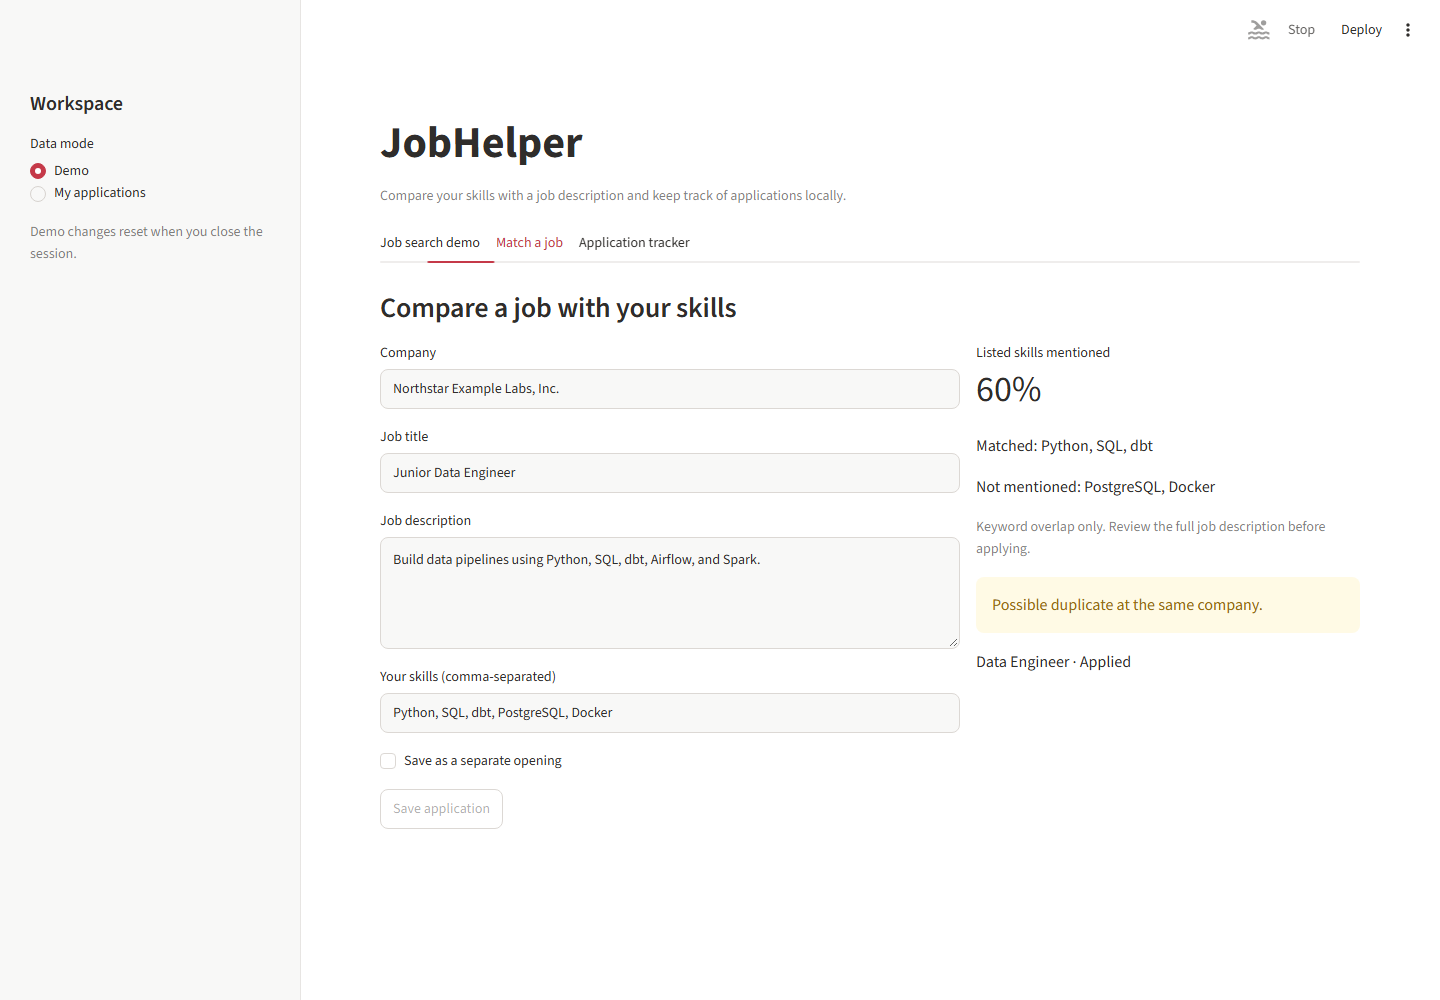
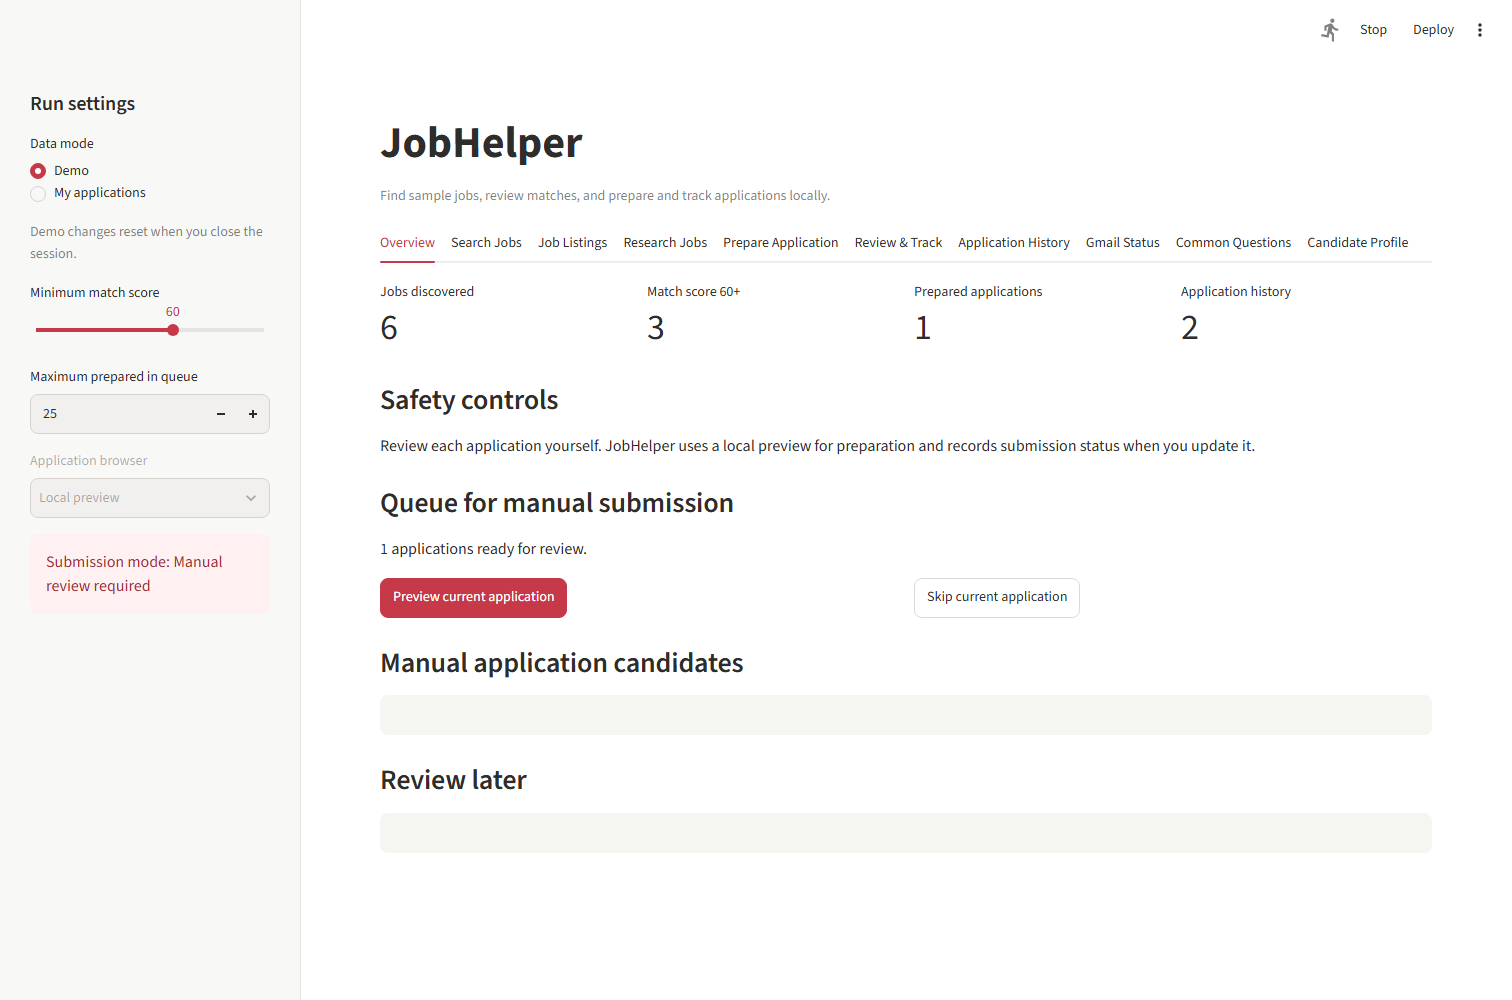
Restore dashboard layout and Windows launcher

diff --git a/app.py b/app.py
@@ -11,12 +11,16 @@ from jobhelper import (
 
 st.set_page_config(page_title="JobHelper", page_icon="🗂", layout="wide")
 st.title("JobHelper")
-st.caption("Compare your skills with a job description and keep track of applications locally.")
+st.caption("Find sample jobs, review matches, and prepare and track applications locally.")
 
 with st.sidebar:
-    st.header("Workspace")
+    st.header("Run settings")
     demo = st.radio("Data mode", ("Demo", "My applications")) == "Demo"
     st.caption("Demo changes reset when you close the session." if demo else "Applications are stored in a local SQLite file.")
+    min_score = st.slider("Minimum match score", 0, 100, 60)
+    queue_limit = st.number_input("Maximum prepared in queue", 1, 300, 25)
+    st.selectbox("Application browser", ("Local preview",), disabled=True)
+    st.error("Submission mode: Manual review required")
 
 if demo:
     if "demo_records" not in st.session_state:
@@ -35,16 +39,78 @@ defaults = DEMO_CHECK if demo else ("", "", "")
 for key, value in zip(draft_keys, defaults):
     st.session_state.setdefault(key, value)
 
-search_tab, match_tab, tracker_tab = st.tabs(("Job search demo", "Match a job", "Application tracker"))
+def change_status(record: Application, status: str) -> None:
+    if demo:
+        records[records.index(record)] = replace(record, status=status)
+    else:
+        tracker.set_status(record.id, status)
+
+
+def show_records(items: list[Application]) -> None:
+    st.dataframe([{"Company": item.company, "Role": item.title, "Status": item.status,
+                   "Added": item.added_on} for item in items], hide_index=True)
+
+
+overview, search_tab, listings, research, match_tab, tracker_tab, history, gmail, questions, profile = st.tabs((
+    "Overview", "Search Jobs", "Job Listings", "Research Jobs", "Prepare Application", "Review & Track",
+    "Application History", "Gmail Status", "Common Questions", "Candidate Profile",
+))
+
+with profile:
+    st.subheader("Candidate profile")
+    st.caption("Enter the skills you want to compare with job descriptions. Demo mode provides sample skills.")
+    skills = st.text_input("Your skills (comma-separated)", value=DEMO_SKILLS if demo else "", key=f"{prefix}_skills")
+
+with overview:
+    all_samples = search_demo("All sources", "", "") if demo else []
+    history_records = [item for item in records if item.status in {"Applied", "Interview", "Offer", "Rejected", "Withdrawn"}]
+    prepared = [item for item in records if item.status == "Prepared"]
+    metrics = st.columns(4)
+    metrics[0].metric("Jobs discovered", len(all_samples) if demo else len(records))
+    metrics[1].metric(f"Match score {min_score}+", sum(match_skills(skills, item.description).percent >= min_score for item in (all_samples if demo else records)))
+    metrics[2].metric("Prepared applications", len(prepared))
+    metrics[3].metric("Application history", len(history_records))
+    st.subheader("Safety controls")
+    st.write("Review each application yourself. JobHelper uses a local preview for preparation and records submission status when you update it.")
+    st.subheader("Queue for manual submission")
+    if prepared:
+        st.write(f"{len(prepared)} applications ready for review.")
+        actions = st.columns(2)
+        if actions[0].button("Preview current application", type="primary", key="overview_preview"):
+            st.session_state[f"{prefix}_preview"] = prepared[0].id
+        if actions[1].button("Skip current application", key="overview_skip"):
+            change_status(prepared[0], "Skipped")
+            st.rerun()
+        if st.session_state.get(f"{prefix}_preview") == prepared[0].id:
+            st.text(f"{prepared[0].title} · {prepared[0].company}\n\n{prepared[0].description}")
+    else:
+        st.info("Prepare a job in Prepare Application to add it to this queue.")
+    st.subheader("Manual application candidates")
+    candidates = [item for item in records if item.status == "Saved"]
+    if candidates:
+        show_records(candidates)
+    else:
+        st.info("Saved applications will appear here.")
+    st.subheader("Review later")
+    later = [item for item in records if item.status == "Later"]
+    if later:
+        show_records(later)
+    else:
+        st.caption("Move an application to Later in Review & Track to see it here.")
 
 with search_tab:
-    st.subheader("Search sample postings")
+    st.subheader("Job search")
+    for column, label in zip(st.columns(len(DEMO_SOURCES)), DEMO_SOURCES):
+        if column.button(label, key=f"source_{label}", width="stretch"):
+            st.session_state.selected_source = label
+            st.session_state.sample_filters = (label, "", "")
     st.info("Simulated search. All postings are fictional. Job boards are not contacted.")
     with st.form("sample_search"):
         filters = st.columns(3)
-        source = filters[0].selectbox("Source", ("All sources", *DEMO_SOURCES), index=1)
-        query = filters[1].text_input("Keywords", placeholder="Data Engineer")
-        location = filters[2].text_input("Location", placeholder="Berlin")
+        source = st.session_state.get("selected_source", "StepStone")
+        filters[0].text(f"Source: {source}")
+        query = filters[1].text_input("Keywords", placeholder="Data Engineer", key="search_keywords")
+        location = filters[2].text_input("Location", placeholder="Berlin", key="search_location")
         if st.form_submit_button("Search sample jobs", type="primary"):
             st.session_state.sample_filters = (source, query, location)
 
@@ -58,17 +124,40 @@ with search_tab:
             info.text(posting.description)
             if action.button("Use in demo", key=f"sample_{index}", disabled=not demo):
                 st.session_state.update(dict(zip(draft_keys, (posting.company, posting.title, posting.description))))
-                st.success("Sample copied. Open Match a job to review it.")
+                st.success("Sample copied. Open Prepare Application to review it.")
     if not demo:
-        st.caption("Switch to Demo mode to copy a sample into the matcher.")
+        st.caption("Switch to Demo mode to try application preparation with a fictional posting.")
+
+with listings:
+    st.subheader("Job listings")
+    if demo:
+        scored = [(item, match_skills(skills, item.description).percent) for item in all_samples]
+        visible = [{"Role": item.title, "Company": item.company, "Location": item.location,
+                    "Source": item.source, "Match score": score} for item, score in scored if score >= min_score]
+        if visible:
+            st.dataframe(visible, hide_index=True)
+        else:
+            st.info("No sample jobs meet the current match threshold.")
+    elif records:
+        show_records(records)
+    else:
+        st.info("Add a job in Prepare Application to start your list.")
+
+with research:
+    st.subheader("Research jobs")
+    if demo:
+        st.dataframe([{"Role": "Research Software Engineer", "Institution": "Example Institute for Computing",
+                       "Topic": "Reproducible Python workflows", "Location": "Berlin", "Source": "Fictional example"}], hide_index=True)
+    else:
+        st.info("The research jobs panel shows a fictional research listing in Demo mode.")
 
 with match_tab:
-    st.subheader("Compare a job with your skills")
+    st.subheader("Prepare a job application")
     inputs, analysis = st.columns([3, 2])
     company = inputs.text_input("Company", key=draft_keys[0])
     title = inputs.text_input("Job title", key=draft_keys[1])
     description = inputs.text_area("Job description", key=draft_keys[2], height=140)
-    skills = inputs.text_input("Your skills (comma-separated)", value=DEMO_SKILLS if demo else "", key=f"{prefix}_skills")
+    inputs.caption("Edit your skills in Candidate Profile.")
     match = match_skills(skills, description)
     if description.strip() and (match.matched or match.unmentioned):
         analysis.metric("Listed skills mentioned", f"{match.percent}%")
@@ -82,13 +171,20 @@ with match_tab:
         for record in duplicates:
             analysis.text(f"{record.title} · {record.status}")
     confirmed = inputs.checkbox("Save as a separate opening", key=f"{prefix}_duplicate_override") if duplicates else True
+    prepare = inputs.checkbox("Add to the prepared queue", key=f"{prefix}_prepare")
     if inputs.button("Save application", type="primary", disabled=not confirmed, key=f"{prefix}_save"):
         try:
+            if prepare and len(prepared) >= queue_limit:
+                raise ValueError("The prepared queue is at its configured limit.")
             if demo:
                 new_id = max((record.id for record in records), default=0) + 1
                 records.insert(0, new_application(company, title, description, new_id))
+                if prepare:
+                    change_status(records[0], "Prepared")
             else:
                 new_id = tracker.add(company, title, description)
+                if prepare:
+                    tracker.set_status(new_id, "Prepared")
             st.session_state[f"{prefix}_record"] = new_id
             st.session_state[f"{prefix}_saved"] = True
             st.rerun()
@@ -98,19 +194,41 @@ with match_tab:
         inputs.success("Application saved.")
 
 with tracker_tab:
-    st.subheader("Application tracker")
+    st.subheader("Review and track applications")
     if not records:
         st.info("Save a job from the matcher to start tracking it.")
     else:
-        st.dataframe([{"Company": record.company, "Role": record.title, "Status": record.status,
-                       "Added": record.added_on} for record in records], hide_index=True)
+        show_records(records)
         by_id = {record.id: record for record in records}
         selected = st.selectbox("Application", list(by_id), format_func=lambda item: f"#{item} · {by_id[item].title} at {by_id[item].company}", key=f"{prefix}_record")
         record = by_id[selected]
+        with st.expander("Application preview"):
+            st.text(record.description)
         status = st.selectbox("Status", STATUSES, index=STATUSES.index(record.status), key=f"{prefix}_status_{selected}")
         if st.button("Update status", disabled=status == record.status, key=f"{prefix}_update"):
-            if demo:
-                records[records.index(record)] = replace(record, status=status)
-            else:
-                tracker.set_status(selected, status)
+            change_status(record, status)
             st.rerun()
+
+with history:
+    st.subheader("Application history")
+    query = st.text_input("Find a company or role", key="history_query").strip().casefold()
+    matching_history = [item for item in history_records if query in f"{item.company} {item.title}".casefold()]
+    if matching_history:
+        show_records(matching_history)
+    else:
+        st.info("Applications marked Applied or with a later outcome appear here.")
+
+with gmail:
+    st.subheader("Gmail application status")
+    st.info("Email status preview. This edition does not connect to Gmail.")
+    if demo:
+        st.dataframe([{"Subject": "Interview invitation (fictional)", "Company": "Harbor Example Analytics",
+                       "Detected status": "Interview"}], hide_index=True)
+
+with questions:
+    st.subheader("Common application questions")
+    st.dataframe([
+        {"Question": "Are you authorized to work here?", "Handling": "Confirm yourself"},
+        {"Question": "What is your earliest start date?", "Handling": "Confirm yourself"},
+        {"Question": "Why are you interested in this role?", "Handling": "Write a role-specific answer"},
+    ], hide_index=True)

diff --git a/jobhelper.py b/jobhelper.py
@@ -9,7 +9,7 @@ from datetime import date
 from pathlib import Path
 
 
-STATUSES = ("Saved", "Applied", "Interview", "Offer", "Rejected", "Withdrawn")
+STATUSES = ("Saved", "Prepared", "Later", "Skipped", "Applied", "Interview", "Offer", "Rejected", "Withdrawn")
 COMPANY_SUFFIXES = {"corp", "gmbh", "inc", "limited", "llc", "ltd", "plc"}
 TITLE_MODIFIERS = {"junior", "jr", "senior", "sr", "remote", "hybrid"}
 SKILL_ALIASES = {
@@ -22,6 +22,9 @@ DEMO_SKILLS = "Python, SQL, dbt, PostgreSQL, Docker"
 DEMO_JOBS = (
     ("Northstar Example Labs", "Data Engineer", "Build data pipelines using Python, SQL, dbt, Airflow, and Spark.", "Applied"),
     ("Harbor Example Analytics", "Analytics Engineer", "Own dbt models and build reports with SQL and PostgreSQL. Experience with Tableau is helpful.", "Interview"),
+    ("Juniper Example Works", "Backend Engineer", "Build Python APIs with PostgreSQL and Docker.", "Prepared"),
+    ("Maple Example Studio", "Data Analyst", "Use SQL and Tableau to report product metrics.", "Saved"),
+    ("Alder Example Robotics", "Computer Vision Engineer", "Build image processing pipelines using Python and OpenCV.", "Later"),
 )
 DEMO_CHECK = ("Northstar Example Labs, Inc.", "Junior Data Engineer", DEMO_JOBS[0][2])
 
@@ -40,9 +43,9 @@ DEMO_POSTINGS = (
     DemoPosting("StepStone", *DEMO_CHECK[:2], "Berlin", DEMO_CHECK[2]),
     DemoPosting("StepStone", "Cedar Example Systems", "Machine Learning Engineer", "Munich", "Train Python models with scikit-learn and ship services using Docker."),
     DemoPosting("LinkedIn", *DEMO_JOBS[1][:2], "Hamburg", DEMO_JOBS[1][2]),
-    DemoPosting("XING", "Juniper Example Works", "Backend Engineer", "Berlin", "Build Python APIs with PostgreSQL and Docker."),
-    DemoPosting("EnglishJobs.de", "Maple Example Studio", "Data Analyst", "Remote", "Use SQL and Tableau to report product metrics."),
-    DemoPosting("Jobs Without German", "Alder Example Robotics", "Computer Vision Engineer", "Munich", "Build image processing pipelines using Python and OpenCV."),
+    DemoPosting("XING", *DEMO_JOBS[2][:2], "Berlin", DEMO_JOBS[2][2]),
+    DemoPosting("EnglishJobs.de", *DEMO_JOBS[3][:2], "Remote", DEMO_JOBS[3][2]),
+    DemoPosting("Jobs Without German", *DEMO_JOBS[4][:2], "Munich", DEMO_JOBS[4][2]),
 )
 
 

diff --git a/tests/test_jobhelper.py b/tests/test_jobhelper.py
@@ -4,7 +4,7 @@ from pathlib import Path
 
 from streamlit.testing.v1 import AppTest
 
-from jobhelper import DEMO_CHECK, Application, Tracker, duplicate_candidates, match_skills, search_demo
+from jobhelper import DEMO_CHECK, DEMO_JOBS, Application, Tracker, duplicate_candidates, match_skills, search_demo
 
 
 class JobHelperTests(unittest.TestCase):
@@ -42,18 +42,22 @@ class JobHelperTests(unittest.TestCase):
     def test_demo_search_to_tracker(self):
         app = AppTest.from_file(str(Path(__file__).resolve().parents[1] / "app.py"), default_timeout=20).run()
         self.assertFalse(app.exception)
-        self.assertEqual(app.metric[0].value, "60%")
+        self.assertEqual(next(metric for metric in app.metric if metric.label == "Listed skills mentioned").value, "60%")
         self.assertTrue(app.warning)
         self.assertTrue(app.button(key="demo_save").disabled)
-        app.text_input[0].set_value("machine learning")
-        app.text_input[1].set_value("Munich")
+        app.button(key="source_StepStone").click().run()
+        app.text_input(key="search_keywords").set_value("machine learning")
+        app.text_input(key="search_location").set_value("Munich")
         next(button for button in app.button if button.label == "Search sample jobs").click().run()
         app.button(key="sample_0").click().run()
         self.assertEqual(app.text_input(key="demo_title").value, "Machine Learning Engineer")
+        app.checkbox(key="demo_prepare").check().run()
         app.button(key="demo_save").click().run()
         self.assertFalse(app.exception)
-        self.assertEqual(app.selectbox(key="demo_record").value, 3)
-        app.selectbox(key="demo_status_3").set_value("Applied").run()
+        new_id = len(DEMO_JOBS) + 1
+        self.assertEqual(app.selectbox(key="demo_record").value, new_id)
+        self.assertEqual(app.session_state.demo_records[0].status, "Prepared")
+        app.selectbox(key=f"demo_status_{new_id}").set_value("Applied").run()
         app.button(key="demo_update").click().run()
         self.assertFalse(app.exception)
         self.assertEqual(app.session_state.demo_records[0].status, "Applied")

diff --git a/README.md b/README.md
@@ -2,11 +2,13 @@
 
 JobHelper is a local job application tracker built with Python, Streamlit, and SQLite. It explains which of your skills are mentioned in a job description and flags likely duplicate applications before you save them.
 
-![JobHelper demo showing skill overlap and a duplicate warning for a fictional posting](demo.png)
+![JobHelper dashboard showing run settings, job metrics, and application queues](demo.png)
 
 ## Try the demo
 
-Use Python 3.11 or later.
+Use Python 3.11 or later. On Windows, double-click **`start.bat`**. The launcher sets up missing dependencies and opens the dashboard. Keep the launcher window open while working.
+
+To start it from a terminal on any platform:
 
 ```bash
 python -m venv .venv
@@ -19,7 +21,7 @@ python -m pip install -r requirements.txt
 python -m streamlit run app.py
 ```
 
-Demo mode opens by default. In **Job search demo**, select **StepStone**, enter `Data Engineer` and `Berlin`, and click **Search sample jobs**. Copy a result into **Match a job** to see the skills found and an example duplicate warning. Try the sample Machine Learning Engineer posting to save a new application, then update its status in **Application tracker**.
+Demo mode opens on **Overview**. In **Search Jobs**, click **StepStone**, enter `Data Engineer` and `Berlin`, and click **Search sample jobs**. Copy a result into **Prepare Application** to see the skills found and an example duplicate warning. Try the sample Machine Learning Engineer posting to add a new application to the prepared queue, then update its status in **Review & Track**. Submitted applications also appear in **Application History**.
 
 All search results are fictional fixtures. Job board names are filter labels and the app has no affiliation with them. Search performs no external requests. The app does not sign in, scrape postings, or submit applications.
 
@@ -27,7 +29,8 @@ All search results are fictional fixtures. Job board names are filter labels and
 
 - **Skill matching** counts the fraction of your listed skills mentioned in the description. It uses boundary-aware text matching and a small alias dictionary. The score measures keyword overlap and does not predict hiring outcomes.
 - **Duplicate checks** compare normalized company names and core title tokens. Similar titles can refer to distinct openings, so you can choose to save one separately.
-- **Application tracking** supports Saved, Applied, Interview, Offer, Rejected, and Withdrawn. Demo changes live in the current session. In **My applications** mode, records are stored in the local `data/applications.sqlite3` file, ignored by Git.
+- **Application tracking** includes prepared and manual queues, a review-later queue, and history. Demo changes live in the current session. In **My applications** mode, records are stored in the local `data/applications.sqlite3` file, ignored by Git.
+- **Research jobs and Gmail status** show fictional examples. Application preparation uses a local preview, and the tracker records statuses manually.
 
 The app binds to localhost with Streamlit telemetry disabled. It requires neither an API key nor a job board account.
 
